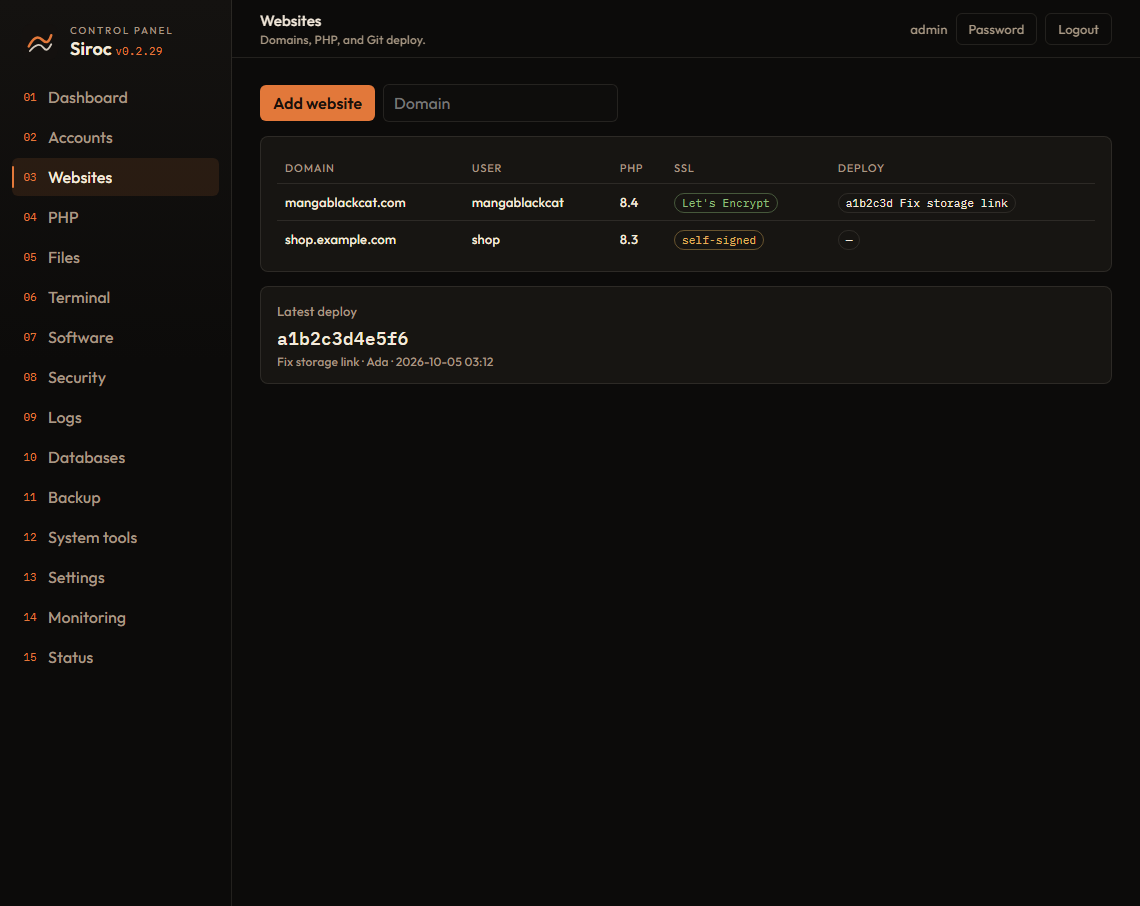
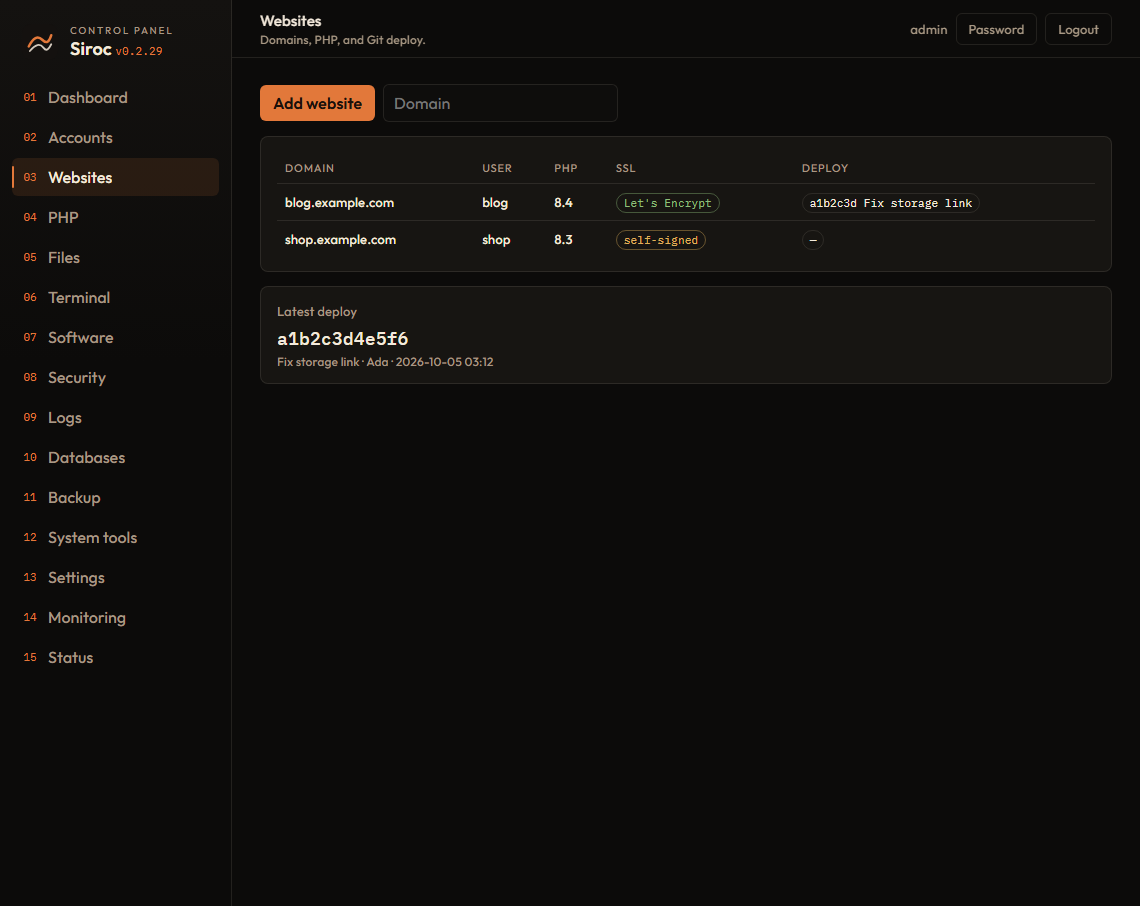
Release 0.3.21 so the homepage screenshots use example domains and the README drops the site deploy steps.

diff --git a/design/panel.html b/design/panel.html
@@ -292,7 +292,7 @@
             <h3>Accounts by disk</h3>
             <table><thead><tr><th>User</th><th>Sites</th><th>Disk</th><th>PHP</th></tr></thead>
             <tbody>
-              <tr><td>mangablackcat</td><td>3</td><td>4.8G</td><td>8.4</td></tr>
+              <tr><td>blog</td><td>3</td><td>4.8G</td><td>8.4</td></tr>
               <tr><td>shop</td><td>1</td><td>1.2G</td><td>8.3</td></tr>
               <tr><td>api</td><td>2</td><td>640M</td><td>8.4</td></tr>
             </tbody></table>
@@ -301,35 +301,35 @@
           <div class="row"><button class="solid">Add account</button><input class="field" placeholder="Search users" /></div>
           <article class="card"><table><thead><tr><th>User</th><th>Home</th><th>Quota</th><th>SSH</th><th></th></tr></thead>
           <tbody>
-            <tr><td>mangablackcat</td><td>/home/mangablackcat</td><td>10G</td><td><span class="tag ok">on</span></td><td><button class="ghost">Open</button></td></tr>
+            <tr><td>blog</td><td>/home/blog</td><td>10G</td><td><span class="tag ok">on</span></td><td><button class="ghost">Open</button></td></tr>
             <tr><td>shop</td><td>/home/shop</td><td>none</td><td><span class="tag ok">on</span></td><td><button class="ghost">Open</button></td></tr>
           </tbody></table></article>`,
         sites: `
           <div class="row"><button class="solid">Add website</button><input class="field" placeholder="Domain" /></div>
           <article class="card"><table><thead><tr><th>Domain</th><th>User</th><th>PHP</th><th>SSL</th><th>Deploy</th></tr></thead>
           <tbody>
-            <tr><td>mangablackcat.com</td><td>mangablackcat</td><td>8.4</td><td><span class="tag ok">Let's Encrypt</span></td><td><span class="tag">a1b2c3d Fix storage link</span></td></tr>
+            <tr><td>blog.example.com</td><td>blog</td><td>8.4</td><td><span class="tag ok">Let's Encrypt</span></td><td><span class="tag">a1b2c3d Fix storage link</span></td></tr>
             <tr><td>shop.example.com</td><td>shop</td><td>8.3</td><td><span class="tag warn">self-signed</span></td><td><span class="tag">—</span></td></tr>
           </tbody></table></article>
           <article class="card" style="margin-top:14px"><h3>Latest deploy</h3><div class="stat" style="font-size:18px">a1b2c3d4e5f6</div><div class="sub">Fix storage link · Ada · 2026-10-05 03:12</div></article>`,
         php: `
-          <div class="row"><select class="field"><option>mangablackcat</option></select><select class="field"><option>PHP 8.4</option><option>PHP 8.3</option></select><button class="solid">Save</button></div>
+          <div class="row"><select class="field"><option>blog</option></select><select class="field"><option>PHP 8.4</option><option>PHP 8.3</option></select><button class="solid">Save</button></div>
           <div class="grid g3">
             <article class="card"><h3>memory_limit</h3><input class="field" value="256M" /></article>
             <article class="card"><h3>upload_max_filesize</h3><input class="field" value="10G" /></article>
-            <article class="card"><h3>Base directory</h3><div class="stat" style="font-size:16px">/home/mangablackcat</div><div class="sub">open_basedir and chdir</div></article>
+            <article class="card"><h3>Base directory</h3><div class="stat" style="font-size:16px">/home/blog</div><div class="sub">open_basedir and chdir</div></article>
           </div>`,
         files: `
-          <div class="row"><input class="field" value="/home/mangablackcat/domains/mangablackcat.com/public_html" style="min-width:420px" /><button class="solid">Open</button><button class="ghost">Rename</button></div>
+          <div class="row"><input class="field" value="/home/blog/domains/blog.example.com/public_html" style="min-width:420px" /><button class="solid">Open</button><button class="ghost">Rename</button></div>
           <article class="card"><table><thead><tr><th>Name</th><th>Size</th><th>Modified</th></tr></thead>
           <tbody>
             <tr><td>index.php</td><td>1.2K</td><td>today</td></tr>
             <tr><td>cover.webp</td><td>240K</td><td>yesterday</td></tr>
             <tr><td>storage</td><td>link</td><td>today</td></tr>
           </tbody></table><p class="note">Page 1 of 3 · 50 files</p></article>`,
-        term: `<article class="card"><pre class="log">mangablackcat@host:~$ ls domains
-mangablackcat.com
-mangablackcat@host:~$ _</pre></article>`,
+        term: `<article class="card"><pre class="log">blog@host:~$ ls domains
+blog.example.com
+blog@host:~$ _</pre></article>`,
         soft: `
           <div class="grid g3">
             <article class="card"><h3>Nginx</h3><span class="tag ok">installed</span><div class="sub">1.31 · lua · VOD</div></article>
@@ -347,7 +347,7 @@ nginx: configuration test is successful</pre></article>`,
             <p class="note">Localhost is always ignored.</p>
           </article>`,
         logs: `
-          <div class="row"><select class="field"><option>mangablackcat.com</option></select><button class="ghost">Clear</button><button class="solid">Clear all</button></div>
+          <div class="row"><select class="field"><option>blog.example.com</option></select><button class="ghost">Clear</button><button class="solid">Clear all</button></div>
           <div class="split">
             <article class="card list"><button class="on">nginx access</button><button>nginx error</button><button>apache error</button><button>laravel.log</button></article>
             <article class="card"><pre class="log">10.0.0.8 - - [05/Oct/2026:03:01:00] "GET /latest HTTP/1.1" 200
@@ -421,6 +421,12 @@ nginx: configuration test is successful</pre></article>`,
         document.getElementById("shell").hidden = true;
         document.getElementById("login").hidden = false;
       };
+      const open = new URLSearchParams(location.search).get("view");
+      if (open && bodies[open]) {
+        document.getElementById("login").hidden = true;
+        document.getElementById("shell").hidden = false;
+        show(open);
+      }
     </script>
   </body>
 </html>

diff --git a/site/changelog/index.html b/site/changelog/index.html
@@ -31,6 +31,7 @@
         <p class="lead">Features added and bugs fixed in each release. Upgrade with the versioned package URL so the checksum matches the file you download.</p>
 
         <nav class="doc-toc">
+          <a href="#v0.3.21">0.3.21</a>
           <a href="#v0.3.20">0.3.20</a>
           <a href="#v0.3.19">0.3.19</a>
           <a href="#v0.3.18">0.3.18</a>
@@ -150,6 +151,15 @@
           <a href="#v0.2.5">0.2.5</a>
           <a href="#v0.2.4">0.2.4</a>
         </nav>
+
+        <section class="release" id="v0.3.21">
+          <h2><a href="#v0.3.21">0.3.21</a></h2>
+          <h3 class="kind">Features</h3>
+          <ul>
+            <li>The homepage screenshots use example domains.</li>
+            <li>The README no longer includes the public website deploy steps.</li>
+          </ul>
+        </section>
 
         <section class="release" id="v0.3.20">
           <h2><a href="#v0.3.20">0.3.20</a></h2>

diff --git a/site/index.html b/site/index.html
@@ -46,7 +46,7 @@
           </div>
           <pre id="install-cmd">curl -fsSL https://siroc.dev/install.sh | sudo bash</pre>
         </div>
-        <p class="meta">Current version <strong id="version">0.3.20</strong> · Channel <code id="channel">https://get.siroc.dev</code></p>
+        <p class="meta">Current version <strong id="version">0.3.21</strong> · Channel <code id="channel">https://get.siroc.dev</code></p>
       </section>
 
       <section class="section screen-section" id="panel">

diff --git a/site/docs/index.html b/site/docs/index.html
@@ -31,7 +31,7 @@
         <p class="lead">
           Siroc is a Linux hosting panel. Hosting accounts are real system users.
           This page covers install, first admin, command-line password reset, and upgrades.
-          Current version <strong id="version">0.3.20</strong>.
+          Current version <strong id="version">0.3.21</strong>.
         </p>
         <nav class="doc-toc">
           <a href="#install">Install</a>

diff --git a/README.md b/README.md
@@ -65,65 +65,11 @@ Example `latest.json` (published to Cloudflare R2 by CI):
 
 ```json
 {
-  "version": "0.3.20",
-  "url": "https://get.siroc.dev/0.3.20/siroc-linux-amd64.tar.gz",
+  "version": "0.3.21",
+  "url": "https://get.siroc.dev/0.3.21/siroc-linux-amd64.tar.gz",
   "sha256": "optional"
 }
 ```
-
-## Website and auto-deploy
-
-The public site lives in `site/` and publishes to **siroc.dev** through **Cloudflare Workers Git** (not GitHub Actions). Release tarballs go to R2 bucket **siroc-cp** at **https://get.siroc.dev**.
-
-### One-time Cloudflare setup
-
-In the Cloudflare “Set up your application” form:
-
-| Field | Value |
-| --- | --- |
-| GitHub | `siroc-dev/siroc` |
-| Project name | `siroc` |
-| Build command | `bash scripts/stamp-site.sh` |
-| Deploy command | `npx wrangler deploy` |
-
-Then:
-
-1. Attach custom domain **siroc.dev** to the Worker (wrangler already routes `siroc.dev` and `www.siroc.dev`).
-2. On R2 bucket **siroc-cp**, add custom domain **get.siroc.dev** and allow public reads.
-3. GitHub Actions secrets for the **release** workflow (R2 S3 API only — do not put an R2 token in Wrangler):
-   - `CLOUDFLARE_ACCOUNT_ID`
-   - `R2_ACCESS_KEY_ID` and `R2_SECRET_ACCESS_KEY` from Cloudflare → R2 → **Manage R2 API Tokens** → Object Read & Write on `siroc-cp`
-
-Do not run `wrangler deploy` from GitHub Actions with that R2 token. It has no Workers access (`No access to the specified service`). Cloudflare Workers Git already deploys `site/` with the account login.
-
-### What CI does
-
-| Workflow | Trigger | Result |
-| --- | --- | --- |
-| Cloudflare Workers Git | push to `main` | publishes `site/` to siroc.dev |
-| `.github/workflows/site.yml` | site/VERSION change | stamps URLs and checks the public site files |
-| `.github/workflows/release.yml` | tag `v*` (or manual) | uploads `siroc-linux-amd64.tar.gz` and `latest.json` to `siroc-cp`, then deletes version prefixes older than the newest 3 |
-
-Tag a release after the token can write R2:
-
-```bash
-git tag v0.2.0
-git push origin v0.2.0
-```
-
-Or build and upload from this machine (same R2 objects as the release workflow). Put credentials in a gitignored `.r2.env` (`CLOUDFLARE_ACCOUNT_ID`, `R2_ACCESS_KEY_ID`, `R2_SECRET_ACCESS_KEY`) and install AWS CLI v2.
-
-```powershell
-.\scripts\release-local.ps1
-```
-
-```bash
-bash scripts/release-local.sh
-```
-
-`-SkipBuild` / `--skip-build` only uploads an existing `dist/siroc-linux-amd64.tar.gz`. `-SkipUpload` / `--skip-upload` only builds the package.
-
-In the panel, set the update channel to `https://get.siroc.dev`.
 
 ## Test with Docker
 
